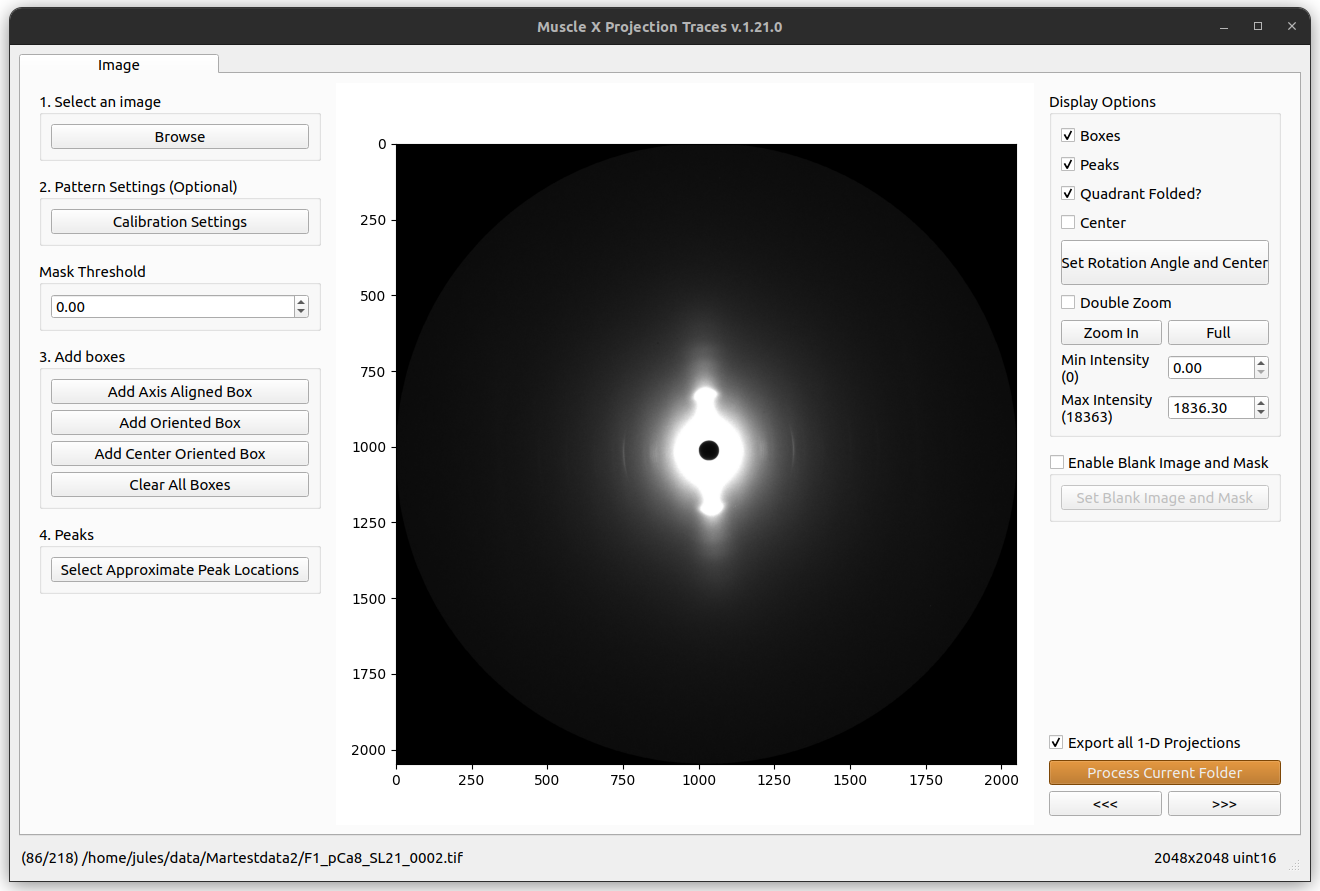
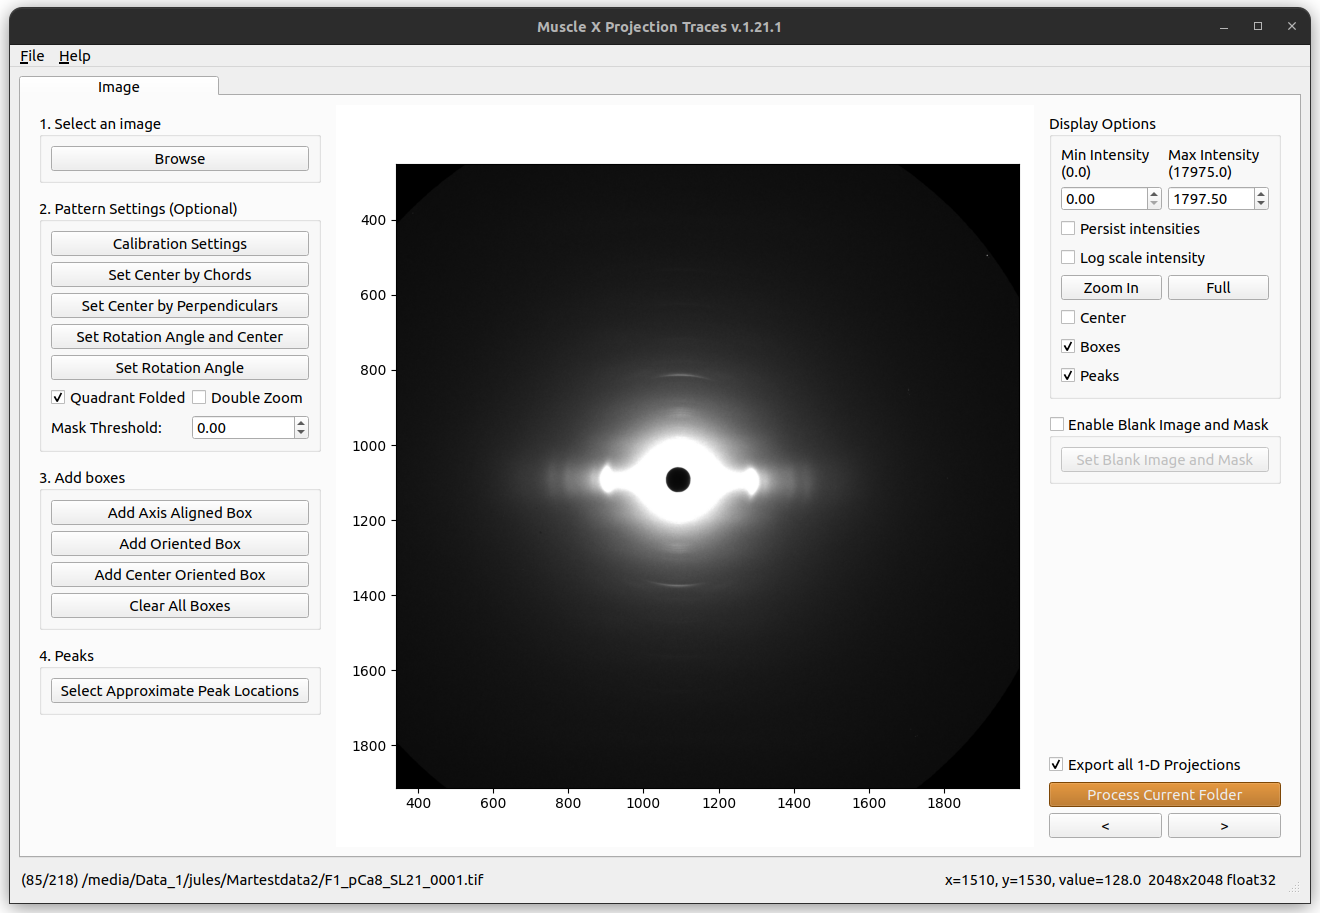
PT change gaussian sigma update + PT center fix + PT docs update

diff --git a/musclex/ui/ProjectionBoxTab.py b/musclex/ui/ProjectionBoxTab.py
@@ -256,7 +256,8 @@ class ProjectionBoxTab(QWidget):
         self.startHull.valueChanged.connect(self.hullRangeChanged)
         self.endHull.valueChanged.connect(self.hullRangeChanged)
 
-        self.resultTable2.itemChanged.connect(self.handleItemChanged)
+        self.resultTable1.itemChanged.connect(self.handleGaussSigChanged)
+        self.resultTable2.itemChanged.connect(self.handleBaselineChanged)
 
         self.prevButton.clicked.connect(self.parent.prevClicked)
         self.nextButton.clicked.connect(self.parent.nextClicked)
@@ -288,15 +289,45 @@ class ProjectionBoxTab(QWidget):
             self.parent.projProc.removeInfo(self.name, 'hists2')
             self.parent.processImage()
 
-    def handleItemChanged(self, item):
+    def handleGaussSigChanged(self, item):
         """
-        Trigger when a item in table is changed
+        Trigger when Gaussian Sigma in table is changed
+        :param item:
+        :return:
+        """
+        if self.parent.projProc is not None and item.column() == 2 and not self.syncUI:
+            try:
+                self.parent.projProc.setGaussSig(self.name, item.row(), item.text())
+                self.parent.processImage()
+            except ValueError:
+                errMsg = QMessageBox()
+                errMsg.setText('Invalid Value')
+                errMsg.setInformativeText("Please use an int or float number for the Gaussian Sigma value\n\n")
+                errMsg.setStandardButtons(QMessageBox.Ok)
+                errMsg.setIcon(QMessageBox.Warning)
+                errMsg.exec_()
+                self.need_update = True
+                self.updateUI()
+
+    def handleBaselineChanged(self, item):
+        """
+        Trigger when baseline in table is changed
         :param item:
         :return:
         """
         if self.parent.projProc is not None and item.column() == 0 and not self.syncUI:
-            self.parent.projProc.setBaseline(self.name, item.row(), item.text())
-            self.parent.processImage()
+            try:
+                self.parent.projProc.setBaseline(self.name, item.row(), item.text())
+                self.parent.processImage()
+            except ValueError:
+                errMsg = QMessageBox()
+                errMsg.setText('Invalid Value')
+                errMsg.setInformativeText("Please use an int/float number or a percentage (using '%') for the baseline value\n\n")
+                errMsg.setStandardButtons(QMessageBox.Ok)
+                errMsg.setIcon(QMessageBox.Warning)
+                errMsg.exec_()
+                self.need_update = True
+                self.updateUI()
 
     def zoomInclicked(self):
         """
@@ -781,7 +812,7 @@ class ProjectionBoxTab(QWidget):
                 self.resultTable1.setItem(i, 1, item)
 
                 item = QTableWidgetItem(str(sigma))
-                item.setFlags(Qt.ItemIsEnabled)
+                # item.setFlags(Qt.ItemIsEnabled)
                 self.resultTable1.setItem(i, 2, item)
 
                 item = QTableWidgetItem(str(area))

diff --git a/musclex/ui/ProjectionTracesGUI.py b/musclex/ui/ProjectionTracesGUI.py
@@ -153,7 +153,7 @@ class ProjectionTracesGUI(QMainWindow):
         self.centerx = None
         self.centery = None
         self.center_func = None
-        self.rotated = False
+        self.rotated = True
         self.rotationAngle = 0
         self.calSettingsDialog = None
         self.numberOfFiles = 0
@@ -605,6 +605,7 @@ class ProjectionTracesGUI(QMainWindow):
             self.setCentByChords.setChecked(False)
             self.center_func = 'manual'
             self.rotated = True
+            self.updateCenter()
             self.removeAllTabs()
             self.processImage()
             self.addBoxTabs()
@@ -658,6 +659,7 @@ class ProjectionTracesGUI(QMainWindow):
             self.setCentByPerp.setChecked(False)
             self.center_func = 'manual'
             self.rotated = True
+            self.updateCenter()
             self.removeAllTabs()
             self.processImage()
             self.addBoxTabs()
@@ -789,11 +791,13 @@ class ProjectionTracesGUI(QMainWindow):
         """
         if self.qfChkBx.isChecked():
             self.center_func = 'quadrant_fold'
+            self.rotated = False
         elif self.center_func == 'init':
+            self.rotated = False
             pass
         else:
             self.center_func = 'automatic'
-        self.rotated = False
+            self.rotated = True
         self.updateCenter()
         self.processImage()
         self.addBoxTabs()
@@ -1487,7 +1491,7 @@ class ProjectionTracesGUI(QMainWindow):
                 self.setRotAndCentB.setChecked(False)
                 self.center_func = 'manual'
                 self.rotated = True
-                # self.updateCenter()
+                self.updateCenter()
                 self.removeAllTabs()
                 self.processImage()
                 self.addBoxTabs()
@@ -2120,6 +2124,10 @@ class ProjectionTracesGUI(QMainWindow):
                 self.qfChkBx.disconnect()
                 self.qfChkBx.setChecked(False)
                 self.qfChkBx.stateChanged.connect(self.qfChkBxClicked)
+        elif self.center_func == 'manual':
+            self.qfChkBx.disconnect()
+            self.qfChkBx.setChecked(False)
+            self.qfChkBx.stateChanged.connect(self.qfChkBxClicked)
 
         self.projProc.info['centerx'] = self.centerx
         self.projProc.info['centery'] = self.centery

diff --git a/musclex/modules/ProjectionProcessor.py b/musclex/modules/ProjectionProcessor.py
@@ -68,6 +68,7 @@ class ProjectionProcessor:
         self.rotated = False
         self.version = __version__
         self.masked = False
+        self.fixed_sigma = {}
         cache = self.loadCache()
         self.rotMat = None  # store the rotation matrix used so that any point specified in current co-ordinate system can be transformed to the base (original image) co-ordinate system
         if cache is None:
@@ -443,7 +444,10 @@ class ProjectionProcessor:
             # Init peaks params
             for j,p in enumerate(peaks):
                 params.add('p_' + str(j), p, min=p - 10., max=p + 10.)
-                params.add('sigma' + str(j), 10, min=1, max=50.)
+                if j in self.fixed_sigma:
+                    params.add('sigma' + str(j), self.fixed_sigma[j], vary=False)
+                else:
+                    params.add('sigma' + str(j), 10, min=1, max=50.)
                 params.add('amplitude' + str(j), sum(hist)/10., min=-1)
                 # params.add('gamma' + str(j), 0. , min=0., max=30)
 
@@ -542,6 +546,18 @@ class ProjectionProcessor:
                 print("Centroid Result : " + str(results))
                 print("---")
 
+    def setGaussSig(self, box_name, peak_num, new_sigma):
+        """
+        Change Gaussian Sigma and clear previous fit
+        :param box_name: box name (str)
+        :param peak_num: peak name (int)
+        :param mew_sigma: new sigma value or percentage (str)
+        :return:
+        """
+        new_sigma = float(str(new_sigma))
+        self.fixed_sigma[peak_num] = new_sigma
+        self.removeInfo(box_name, 'fit_results')
+
     def setBaseline(self, box_name, peak_num, new_baseline):
         """
         Change baseline and clear centroid and width for the specific box and peak
@@ -560,7 +576,7 @@ class ProjectionProcessor:
             percent = float(new_baseline.rstrip("%"))
             baseline = height * percent / 100.
         elif len(new_baseline) == 0:
-            # if new_baseline is empty, baseline will by half-height
+            # if new_baseline is empty, baseline will be half-height
             baseline = float(height * .5)
         else:
             baseline = float(new_baseline)

diff --git a/docs/AppSuite/ProjectionTraces/Projection-Traces--How-to-use.md b/docs/AppSuite/ProjectionTraces/Projection-Traces--How-to-use.md
@@ -11,16 +11,51 @@ Once the program is run, you will see the steps 1 to 4 that you have to do on th
 First, select an image to process. Second, configure calibration settings (optional). Third, add how many boxes you want. Finally, select peak locations in each box. For each folder, you just need to do it once on the first image. When another image in the same folder is processed, all these settings will be used.
 
 In this page, you will know about ...
-1. [Mask Threshold](#mask-threshold)
-2. [Adding and removing boxes](#adding-boxes)
-3. [Select Peaks](#select-approximate-peak-locations)
-5. [Display Options](#display-options)
-6. [Blank Image and Mask](#blank-image-and-mask)
-7. [Navigation](#navigation)
-8. [Other Options](#other-options)
-9. [Box Tab](#box-tab)
+1. [Display Options](#display-options)
+2. [Calibration Options](#calibration-options)
+3. [Adding and removing boxes](#adding-boxes)
+4. [Select Peaks](#select-approximate-peak-locations)
+5. [Blank Image and Mask](#blank-image-and-mask)
+6. [Navigation](#navigation)
+7. [Other Options](#other-options)
+8. [Box Tab](#box-tab)
 
-### Mask Threshold
+### Display options
+In the image tab, there are display options shown on the right. These options will not affect any processing. You can check "Boxes", "Center" or "Peaks" to be displayed on the image. You can zoom-in by pressing "Zoom in" and select the zoom in area on the image by drawing a rectangle. (You can zoom-in or zoom-out by mouse wheeling too). Also, you can select min/max intensity to see the image clearly.
+
+As of version 1.14.11, you can specify a rotation angle and center manually. This is done by specifying two reflection peaks in the diffraction. The image will be rotated according to the new angle.
+
+The `Quadrant Folded?` option determines whether the center is assumed to be the half width and height of the image if it's been quadrant folded. If this box is unchecked, the center will be determined automatically. All peaks will be reflected over this center in any drawn boxes. Use the `Center` checkbox to see which center is used by Projection Traces.
+
+![-](../../images/PT/image_disp_opt.png)
+
+In each box tab, you will see multiple check boxes in the section. You can check or uncheck whether you want to see it in the plot
+
+![-](../../images/PT/box_disp_opt.png)
+
+### Calibration options
+
+#### Set Rotation and Center
+Before setting manual rotation and center, it’s better to zoom the image to the area of the diffraction because it will be easier to set these parameters correctly. To set the rotation and center, you need to click 2 positions of the image. The first one will be a reflection peak on one side of the equator, and the second one will be the corresponding (opposite) reflection peak on the other side of the equator. To cancel, press ESC.<br/>
+![-](../../images/PT/center.png)
+
+#### Set Center By Chords
+Before setting center by chords, it’s better to zoom the image to the area of the diffraction because it will be easier to set these parameters correctly. This method is used to find the diffraction center and uses the fact that "All perpendiculars to the chords in a circle intersect at the center". On clicking this button, you will be prompted to select points along the circumference of the diffraction patter. As you select these points, perpendicular lines to the chords formed using these points start to appear on the image in blue color.  Once you finish selecting the points, click the same button again to start processing. The diffraction center will then be calculated by taking the average of the intersection points of the perpendicular lines (blue lines in the figure).<br/>
+![-](../../images/PT/chords.png)
+
+#### Set Center By Perpendiculars
+Before setting center by perpendiculars, it’s better to zoom the image to the area of the diffraction because it will be easier to set these parameters correctly. This method finds the center of diffraction using intersection of perpendicular lines. On clicking this button, you are prompted to select multiple positions in the image. You can start by clicking the first reflection peak on one side of the equator and the second will be the corresponding (opposite) reflection peak on the other side of the equator. This forms one horizontal line. You can continue drawing as many horizontal lines using this process of selecting reflection peaks. Next, you can click the reflection peak vertically above the equator and the following point symmetrically below the equator. Again, you can draw multiple such lines. Once you finish selecting the points, click the same button (Set Center By Perpendiculars) again to start processing. The diffraction center will then be calculated by taking the average of the intersection points obtained by the horizontal and vertical lines plotted.<br/>
+![-](../../images/PT/perpendiculars.png)
+
+#### Set Rotation Angle
+This assumes that the center of diffraction is correct. After the button is clicked, the program will allow users to select an angle by moving a line. Clicking on image when the line is on the equator of the diffraction will set manual rotation angle. To cancel, press ESC.<br/>
+![-](../../images/PT/rotation.png)
+
+#### Double Zoom
+This feature is used to zoom into subpixel level accuracy. On checking this box, a new subplot is created on the top right of the image. As you move the mouse pointer into the image area, 20 x 20 pixels centered at the location of the mouse pointer is cropped from the image and scaled up to 10 times and plotted in the subplot mentioned earlier. This feature can be used with any calibration feature (Set Rotation, Set Center and Rotation...). Click the double zoom check box so that the subplot appears. Click on a calibration button, for example the Set Center and Rotation button. Drag your mouse pointer to the position you want to select the first point (or the first reflection peak as described earlier). Click the image to freeze the subplot region. A message appears, check do not show again box to not see this message again. Click on the exact point in the subplot region, which plots an equivalent point in the main image. Perform the previous two steps to select the second point. Uncheck the Double Zoom checkbox to hide the subplot window.<br/>
+![-](../../images/PT/DoubleZoom.png)
+
+#### Mask Threshold
 
 The mask threshold allows you to ignore pixels for processing the image. For example if you set-up a threshold of 0, every part of the histogram where the value is less than 0 will be ignored.
 
@@ -51,29 +86,6 @@ To select the approximate peak locations, you can just click on the button, sele
 If there are multiple boxes, it's better to [select the peak locations in the box tab](#select-peaks).
 
 When peaks in a box is selected, the program will process the image by following these [steps](Projection-Traces--How-it-works.html) to get the results.
-
-### Display options
-In the image tab, there are display options shown on the right. These options will not affect any processing. You can check "Boxes", "Center" or "Peaks" to be displayed on the image. You can zoom-in by pressing "Zoom in" and select the zoom in area on the image by drawing a rectangle. (You can zoom-in or zoom-out by mouse wheeling too). Also, you can select min/max intensity to see the image clearly.
-
-As of version 1.14.11, you can specify a rotation angle and center manually. This is done by specifying two reflection peaks in the diffraction. The image will be rotated according to the new angle.
-
-The `Quadrant Folded?` option determines whether the center is assumed to be the half width and height of the image if it's been quadrant folded. If this box is unchecked, the center will be determined automatically. All peaks will be reflected over this center in any drawn boxes. Use the `Center` checkbox to see which center is used by Projection Traces.
-
-![-](../../images/PT/image_disp_opt.png)
-
-In each box tab, you will see multiple check boxes in the section. You can check or uncheck whether you want to see it in the plot
-
-![-](../../images/PT/box_disp_opt.png)
-
-#### Calibration options
-
-##### Set Rotation and Center
-Before setting manual rotation and center, it’s better to zoom the image to the area of the diffraction because it will be easier to set these parameters correctly. To set the rotation and center, you need to click 2 positions of the image. The first one will be a reflection peak on one side of the equator, and the second one will be the corresponding (opposite) reflection peak on the other side of the equator. To cancel, press ESC.<br/>
-![-](../../images/PT/center.png)
-
-##### Double Zoom
-This feature is used to zoom into subpixel level accuracy. On checking this box, a new subplot is created on the top right of the image. As you move the mouse pointer into the image area, 20 x 20 pixels centered at the location of the mouse pointer is cropped from the image and scaled up to 10 times and plotted in the subplot mentioned earlier. This feature can be used with any calibration feature (Set Rotation, Set Center and Rotation...). Click the double zoom check box so that the subplot appears. Click on a calibration button, for example the Set Center and Rotation button. Drag your mouse pointer to the position you want to select the first point (or the first reflection peak as described earlier). Click the image to freeze the subplot region. A message appears, check do not show again box to not see this message again. Click on the exact point in the subplot region, which plots an equivalent point in the main image. Perform the previous two steps to select the second point. Uncheck the Double Zoom checkbox to hide the subplot window.<br/>
-![-](../../images/PT/DoubleZoom.png)
 
 ### Blank Image and Mask
 See the [Blank Image and Mask](Blank-Image-and-Mask.html) documentation for more information on how to use this option.
@@ -116,10 +128,13 @@ To select peaks in the box tab, you can press the "Select Peaks" button, then se
 
 When peaks in a box is selected, the program will process the image by following these [steps](Projection-Traces--How-it-works.html) to get the results.
 
-#### Modify Baseline Value
+#### Modify Centroid Baseline Value
 Inside the Other Results table on the bottom right of your screen, you can modify the baseline value of a peak. You can do so by double clicking on that value, modifying it, then pressing enter.
 
 If the baseline value is higher than the height of the maximum peak, the program will roll back to the previous value entered.
+
+#### Modify Gaussian Sigma Value
+Inside the Fitting Results table on the bottom right of your screen, you can fix the Gaussian Sigma of a peak. You can do so by double clicking on that value, modifying it, then pressing enter.
 
 ## Headless Mode
 Image processing performed in the terminal.

diff --git a/docs/AppSuite/ProjectionTraces/Projection-Traces-(pt).md b/docs/AppSuite/ProjectionTraces/Projection-Traces-(pt).md
@@ -8,8 +8,6 @@ An important capability is to process whole directories of images without user i
 
 **If using a version prior to MuscleX 1.14.11, it is important that these images have been pre-processed using the Quadrant Folding program to ensure that the center of the diffraction pattern coincides with the center of the image (image width/2 and image height/2) with the meridian of the pattern parallel to the long axis of the image** 
 
-*This program is available on MuscleX version 1.3.0 or later.*
-
 ![-](../../images/PT/boxes_peaks.png)
 
 ### More Details
